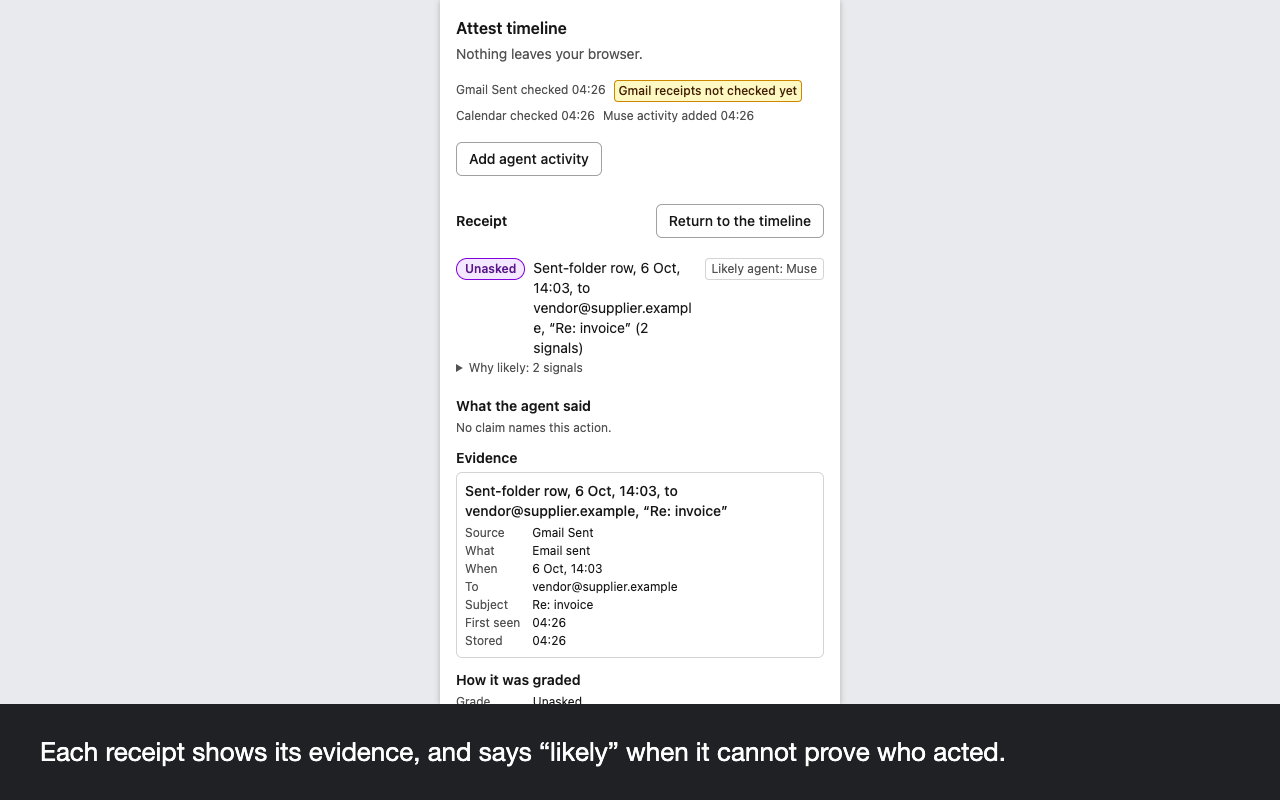
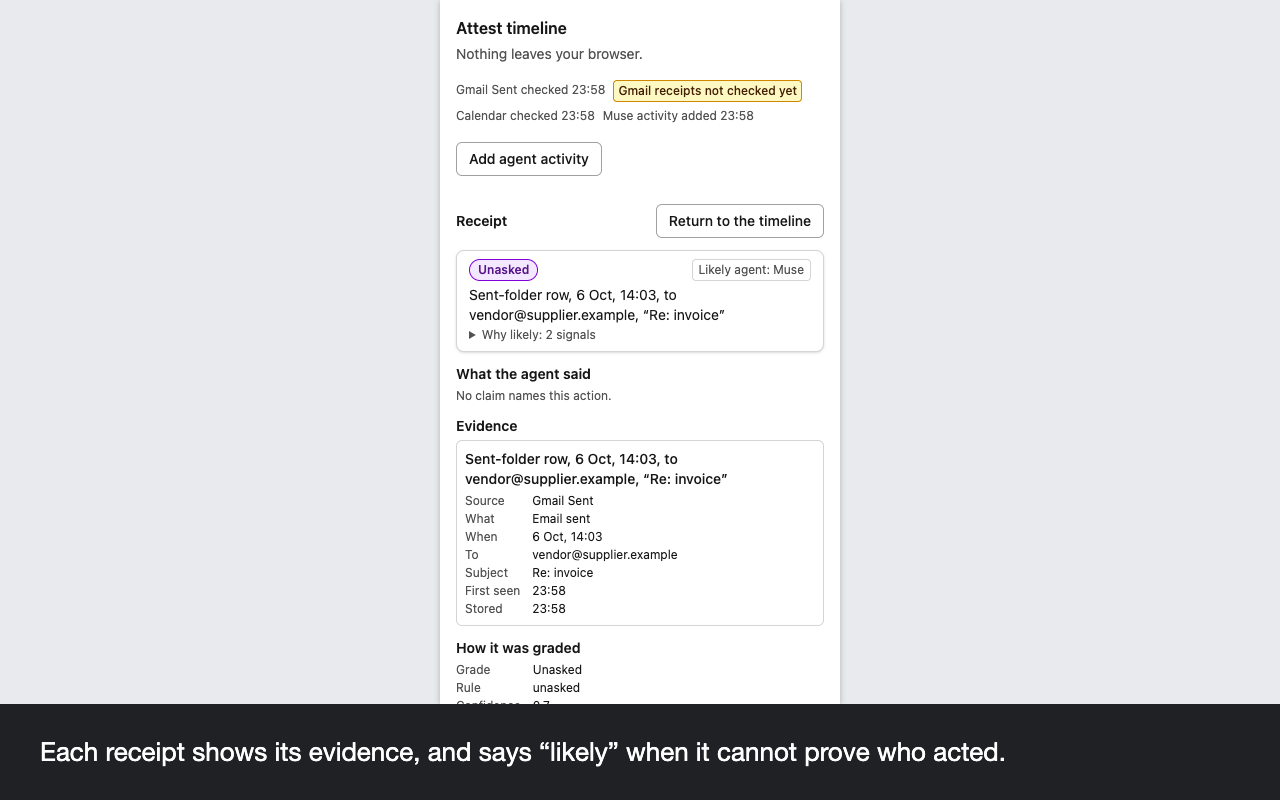
feat(popup): lead with a verdict, receipts as cards, quiet links at the foot
The founder found the UI hard to use. The popup now says first how many
of today's receipts need a look, never "all clear" when a source has a
gap (ux rule 2); each receipt is a card, grade and agent on top and the
claim across the full width; the three buttons become verb links in a
footer. Store screenshots regenerated with invented data.

Changed region(s): [[0.3438, 0.3125, 0.6562, 0.875], [0.4375, 0.0938, 0.5, 0.1562], [0.5625, 0.125, 0.5938, 0.1562]]

diff --git a/extension/src/ui/ReceiptRow.tsx b/extension/src/ui/ReceiptRow.tsx
@@ -15,8 +15,8 @@ export interface ReceiptRowProps {
 }
 
 /**
- * One receipt in a list (agents/ux_engineer.md rules 1, 4 and 6): the grade chip first, then the claim in one line,
- * then the agent ("Likely agent: …" for UNASKED), and in the side panel an Open button for its details; below, its status and why its
+ * One receipt as a card (agents/ux_engineer.md rules 1, 4 and 6): the grade chip first, with the agent ("Likely agent: …"
+ * for UNASKED) and, in the side panel, an Open button on the same row; then the claim across the card's full width; below, its status and why its
  * grade is what it is, and an UNASKED receipt's signals one tap away.
  */
 export function ReceiptRow({ item, nowMs, lastBatchMs, onOpen }: ReceiptRowProps) {
@@ -27,22 +27,24 @@ export function ReceiptRow({ item, nowMs, lastBatchMs, onOpen }: ReceiptRowProps
   const reason = reasonLine(receipt);
   const signals = unasked ? signalLines(receipt) : [];
   return (
-    <li class="py-row" data-receipt={receipt.id}>
-      <div class="flex items-start gap-2">
+    <li class="rounded-lg border border-rule bg-surface px-3 py-2 shadow-sm" data-receipt={receipt.id}>
+      <div class="flex items-center justify-between gap-2">
         <GradeChip grade={receipt.grade} />
-        <p class="min-w-0 flex-1 break-words text-sm text-ink">{line}</p>
-        <AgentBadge agent={receipt.agent} likely={unasked} />
-        {onOpen === undefined ? null : (
-          <button
-            type="button"
-            onClick={onOpen}
-            aria-label={`Open details: ${line}`}
-            class="shrink-0 rounded border border-rule px-1.5 py-0.5 text-xs text-ink hover:bg-skeleton"
-          >
-            Open
-          </button>
-        )}
+        <div class="flex items-center gap-1">
+          <AgentBadge agent={receipt.agent} likely={unasked} />
+          {onOpen === undefined ? null : (
+            <button
+              type="button"
+              onClick={onOpen}
+              aria-label={`Open details: ${line}`}
+              class="shrink-0 rounded border border-rule px-1.5 py-0.5 text-xs text-ink hover:bg-skeleton"
+            >
+              Open
+            </button>
+          )}
+        </div>
       </div>
+      <p class="mt-1 break-words text-sm text-ink">{line}</p>
       {status === null ? null : <p class="mt-0.5 text-xs text-ink-muted">{status}</p>}
       {reason === null ? null : <p class="mt-0.5 text-xs text-ink-muted">{reason}</p>}
       {signals.length === 0 ? null : (

diff --git a/extension/entrypoints/popup/components/VerdictLine.tsx b/extension/entrypoints/popup/components/VerdictLine.tsx
@@ -1,0 +1,45 @@
+import type { ReceiptItem } from '../../../src/ledger/views';
+import { count } from '../../../src/ui/labels';
+
+/** Grades a person should look at (agents/ux_engineer.md rule 1): everything but Verified and Unverifiable. */
+const NEEDS_A_LOOK: ReadonlySet<string> = new Set(['PARTIAL', 'NOT_FOUND', 'UNASKED', 'OVER_SCOPE']);
+
+export interface VerdictLineProps {
+  readonly items: readonly ReceiptItem[];
+  /** True when today has more receipts than the popup shows: the counts then say "the latest". */
+  readonly more: boolean;
+  /** True when a source was not checked recently: "nothing needs a look" is then said only of what was checked (rule 2). */
+  readonly gaps: boolean;
+}
+
+/**
+ * The popup's answer in one line, above the receipts: how many of today's receipts need a look, and how many are
+ * still being checked. It never says "all clear" (rule 2): with nothing to look at it says so only of what Attest
+ * could check when a source has a gap.
+ */
+export function VerdictLine({ items, more, gaps }: VerdictLineProps) {
+  if (items.length === 0) return null;
+  const look = items.filter(({ receipt }) => NEEDS_A_LOOK.has(receipt.grade)).length;
+  const checking = items.filter(({ receipt }) => receipt.state === 'PENDING').length;
+  const of = more ? `of the latest ${String(items.length)}` : `of ${String(items.length)}`;
+  const headline =
+    look > 0
+      ? `${String(look)} ${of} ${look === 1 ? 'needs' : 'need'} a look`
+      : gaps
+        ? 'Nothing needs a look in what Attest could check'
+        : 'Nothing needs a look';
+  const tone =
+    look > 0
+      ? 'border-grade-not-found-edge bg-grade-not-found-bg text-grade-not-found-fg'
+      : 'border-rule bg-surface text-ink';
+  return (
+    <p role="status" class={`rounded-lg border px-3 py-2 text-sm font-medium ${tone}`}>
+      {headline}
+      {checking > 0 ? (
+        <span class="font-normal text-ink-muted">
+          , {count(checking, 'still checking', 'still checking')}
+        </span>
+      ) : null}
+    </p>
+  );
+}

diff --git a/extension/entrypoints/popup/components/PopupLinks.tsx b/extension/entrypoints/popup/components/PopupLinks.tsx
@@ -2,7 +2,6 @@ import { useEffect, useState } from 'preact/hooks';
 import { browser } from 'wxt/browser';
 
 import { log } from '../../../src/log';
-import { Button } from '../../../src/ui/Button';
 
 /** The id of the window the popup belongs to, once Chrome has said it; null until then, or when it cannot. */
 function useWindowId(): number | null {
@@ -19,6 +18,10 @@ function useWindowId(): number | null {
   }, []);
   return id;
 }
+
+/** A quiet text button in the popup's footer: the receipts, not the navigation, lead (agents/ux_engineer.md rule 1). */
+const LINK =
+  'rounded-md px-2 py-1 text-xs font-medium text-ink-muted hover:bg-skeleton hover:text-ink focus-visible:outline focus-visible:outline-2';
 
 /**
  * The popup's ways on (sprint_4 4.2, 4.7): the side panel, for the timeline and each receipt's detail; the weekly
@@ -66,16 +69,16 @@ export function PopupLinks() {
     );
   };
   return (
-    <nav aria-label="Attest pages" class="flex flex-wrap items-center gap-2">
-      <Button variant="secondary" onClick={openTimeline}>
+    <nav aria-label="Attest pages" class="flex flex-wrap items-center gap-1">
+      <button type="button" class={LINK} aria-label="Open timeline" onClick={openTimeline}>
         Open timeline
-      </Button>
-      <Button variant="secondary" onClick={openDigest}>
-        Open weekly digest
-      </Button>
-      <Button variant="secondary" onClick={openSettings}>
+      </button>
+      <button type="button" class={LINK} aria-label="Open weekly digest" onClick={openDigest}>
+        Open digest
+      </button>
+      <button type="button" class={LINK} aria-label="Open settings" onClick={openSettings}>
         Open settings
-      </Button>
+      </button>
       {failed ? (
         <p role="alert" class="w-full text-xs text-error-fg">
           Chrome did not open it. Try again.

diff --git a/extension/entrypoints/popup/components/Today.tsx b/extension/entrypoints/popup/components/Today.tsx
@@ -4,7 +4,9 @@ import { DegradedBanner } from '../../../src/ui/DegradedBanner';
 import { EmptyState } from '../../../src/ui/EmptyState';
 import { ReceiptRow } from '../../../src/ui/ReceiptRow';
 import { autoCheckShown } from '../../../src/ui/auto-check-text';
+import { coverageLines } from '../../../src/ui/receipt-labels';
 import { AutoCheckNotice } from './AutoCheckNotice';
+import { VerdictLine } from './VerdictLine';
 
 export interface TodayProps {
   readonly view: PopupView;
@@ -29,7 +31,12 @@ export function Today({ view, nowMs, userAgent }: TodayProps) {
         <AutoCheckNotice notice={view.autoCheck} nowMs={nowMs} />
       ) : null}
       <CoverageHeader coverage={view.coverage} nowMs={nowMs} />
-      <section aria-labelledby="today-heading" class="space-y-1">
+      <VerdictLine
+        items={today.items}
+        more={today.next !== null}
+        gaps={coverageLines(view.coverage, nowMs).some((line) => !line.current)}
+      />
+      <section aria-labelledby="today-heading" class="space-y-2">
         <h2 id="today-heading" class="text-sm font-semibold" elementtiming="today">
           Today
         </h2>
@@ -39,7 +46,7 @@ export function Today({ view, nowMs, userAgent }: TodayProps) {
             what it did.
           </EmptyState>
         ) : (
-          <ul aria-labelledby="today-heading" class="divide-y divide-rule">
+          <ul aria-labelledby="today-heading" class="space-y-2">
             {today.items.map((item) => (
               <ReceiptRow key={item.receipt.id} item={item} nowMs={nowMs} lastBatchMs={view.lastBatchMs} />
             ))}

diff --git a/extension/src/ui/receipt-row-labels.ts b/extension/src/ui/receipt-row-labels.ts
@@ -9,7 +9,7 @@ import { reasonText } from '../core/reason-text';
 import type { Reason, Receipt } from '../ledger/types';
 import type { ReceiptItem } from '../ledger/views';
 import { clockTime } from './format';
-import { claimTypeLabel, claimWhat, count } from './labels';
+import { claimTypeLabel, claimWhat } from './labels';
 import { evidenceSummary, gradeLabel } from './receipt-labels';
 
 /** The row's one line: the claim as extracted, what an UNASKED receipt is about, or a scope receipt's finding. */
@@ -21,10 +21,8 @@ export function receiptLine(item: ReceiptItem, nowMs: number): string {
     return what === null ? claimTypeLabel(claim.type) : `${claimTypeLabel(claim.type)}: ${what}`;
   }
   if (receipt.grade === 'UNASKED') {
-    const signals = count(signalLines(receipt).length, 'signal', 'signals');
-    return orphan === undefined
-      ? `An action Attest no longer keeps (${signals})`
-      : `${evidenceSummary(orphan, nowMs)} (${signals})`;
+    // The signals' count is the row's "Why likely" summary, one tap from the signals (rule 4), not repeated here.
+    return orphan === undefined ? 'An action Attest no longer keeps' : evidenceSummary(orphan, nowMs);
   }
   const [first] = receipt.reasons;
   return first === undefined ? gradeLabel(receipt.grade) : reasonText(first);

diff --git a/extension/tests/unit/popup/popup.spec.ts b/extension/tests/unit/popup/popup.spec.ts
@@ -251,7 +251,9 @@ describe("the popup's links", () => {
     const close = vi.spyOn(window, 'close').mockImplementation(() => undefined);
     await show(sources(view([])).given);
     const button = (label: string) =>
-      [...root.querySelectorAll('button')].find((candidate) => candidate.textContent === label);
+      [...root.querySelectorAll('button')].find(
+        (candidate) => candidate.getAttribute('aria-label') === label,
+      );
     await act(async () => {
       button('Open timeline')?.click();
       await Promise.resolve();
@@ -269,7 +271,9 @@ describe("the popup's links", () => {
     Reflect.set(fakeBrowser.sidePanel, 'open', vi.fn().mockRejectedValue(new Error('no gesture')));
     await show(sources(view([])).given);
     await act(async () => {
-      [...root.querySelectorAll('button')].find((b) => b.textContent === 'Open timeline')?.click();
+      [...root.querySelectorAll('button')]
+        .find((b) => b.getAttribute('aria-label') === 'Open timeline')
+        ?.click();
       await Promise.resolve();
     });
     expect(root.querySelector('nav [role="alert"]')?.textContent).toBe('Chrome did not open it. Try again.');

diff --git a/extension/tests/unit/ui/receipt-row-labels.spec.ts b/extension/tests/unit/ui/receipt-row-labels.spec.ts
@@ -56,7 +56,7 @@ describe('receiptLine', () => {
     expect(receiptLine(item(receipt()), NOW)).toBe('A claim Attest no longer keeps');
   });
 
-  it('says what an UNASKED receipt is about and how many signals it has', () => {
+  it('says what an UNASKED receipt is about; the row\'s "Why likely" holds the count of its signals', () => {
     const sent = makeObservation({
       occurredAt: iso(NOW - 2 * 60 * MINUTE),
       observedAt: iso(NOW - 119 * MINUTE),
@@ -64,11 +64,9 @@ describe('receiptLine', () => {
     const orphan = Observation.parse(sent);
     const line = receiptLine(item(unasked(SIGNALS), { orphan }), NOW);
     expect(line).toBe(
-      `Sent-folder row, ${clockTime(sent.occurredAt, NOW)}, to alice@example.com, “Quarterly numbers” (2 signals)`,
+      `Sent-folder row, ${clockTime(sent.occurredAt, NOW)}, to alice@example.com, “Quarterly numbers”`,
     );
-    expect(receiptLine(item(unasked(SIGNALS.slice(0, 1))), NOW)).toBe(
-      'An action Attest no longer keeps (1 signal)',
-    );
+    expect(receiptLine(item(unasked(SIGNALS.slice(0, 1))), NOW)).toBe('An action Attest no longer keeps');
   });
 });
 

diff --git a/extension/entrypoints/popup/components/Popup.tsx b/extension/entrypoints/popup/components/Popup.tsx
@@ -26,9 +26,8 @@ export function Popup({ sources, privacy }: PopupProps) {
   const notice = useLoaded(state.status === 'locked', loadLockedNotice);
   return (
     <main class="w-[22rem] space-y-3 bg-surface p-gutter text-sm text-ink">
-      <header class="flex flex-wrap items-center justify-between gap-2">
+      <header>
         <h1 class="text-base font-semibold">Attest</h1>
-        <PopupLinks />
       </header>
       {state.status === 'loading' ? <Skeleton rows={4} label="Loading today's receipts" /> : null}
       {state.status === 'failed' ? (
@@ -42,7 +41,10 @@ export function Popup({ sources, privacy }: PopupProps) {
       {state.status === 'ready' ? (
         <Today view={state.view} nowMs={state.nowMs} userAgent={navigator.userAgent} />
       ) : null}
-      <PrivacyLine sources={privacy} class="text-xs text-ink-muted" />
+      <footer class="space-y-1 border-t border-rule pt-2">
+        <PopupLinks />
+        <PrivacyLine sources={privacy} class="text-xs text-ink-muted" />
+      </footer>
     </main>
   );
 }

diff --git a/extension/tests/unit/options/options-ui.spec.ts b/extension/tests/unit/options/options-ui.spec.ts
@@ -279,7 +279,7 @@ describe('popup and side panel shells', () => {
     expect(root.textContent).toContain(PRIVACY_UNKNOWN);
     // Skeleton rows while the ledger is read (tests/unit/popup/popup.spec.ts covers the day itself).
     expect(statusText()).toBe("Loading today's receipts");
-    expect([...root.querySelectorAll('button')].map((b) => b.textContent.trim())).toEqual([
+    expect([...root.querySelectorAll('button')].map((b) => b.getAttribute('aria-label'))).toEqual([
       'Open timeline',
       'Open weekly digest',
       'Open settings',

diff --git a/CHANGELOG.md b/CHANGELOG.md
@@ -4,6 +4,10 @@ All notable changes to this project are documented here. The format follows [Kee
 
 ## [Unreleased]
 
+### Changed
+
+- The popup answers first: a line at the top says how many of today's receipts need a look (and how many are still checking), each receipt is a card with its grade and agent on top and the claim across the full width, and the links to the timeline, the digest and the settings sit quietly at the foot. An Unasked receipt no longer repeats its signal count, which "Why likely" shows.
+
 ## [0.1.1] - 2026-10-19
 
 ### Changed
